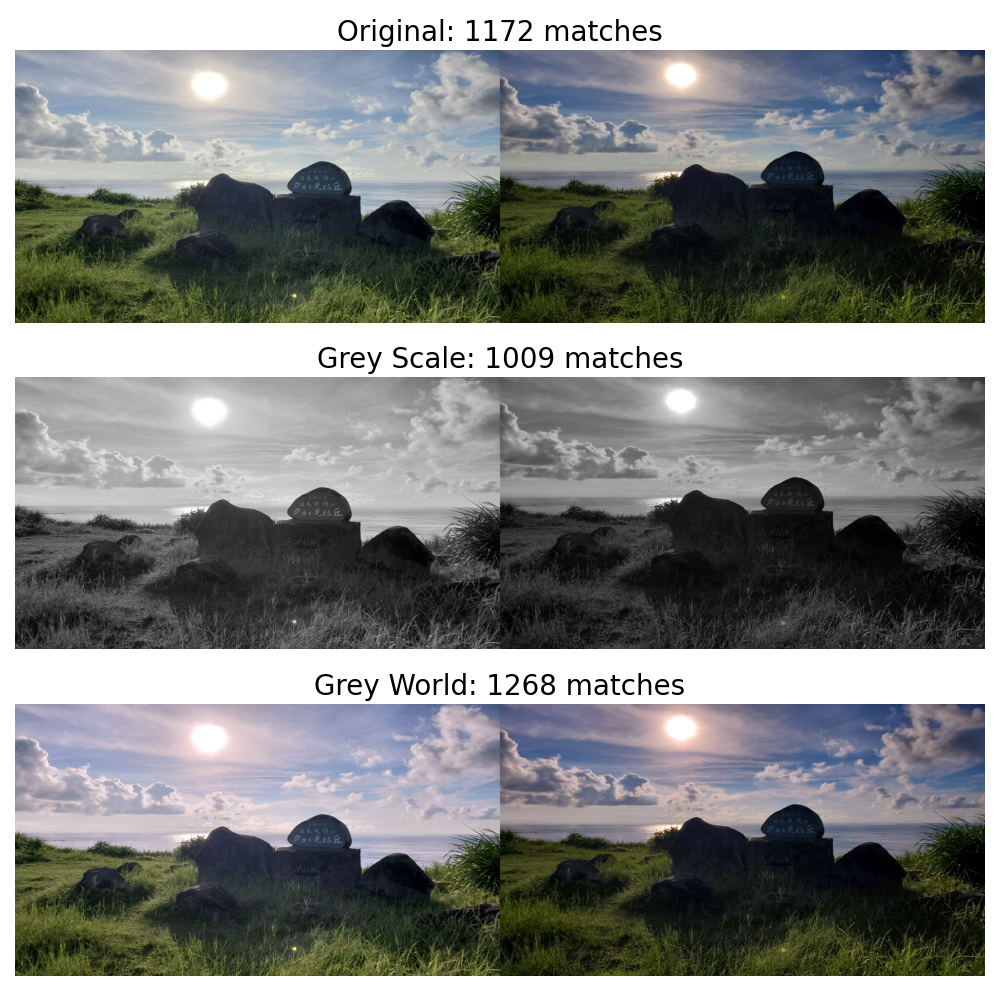
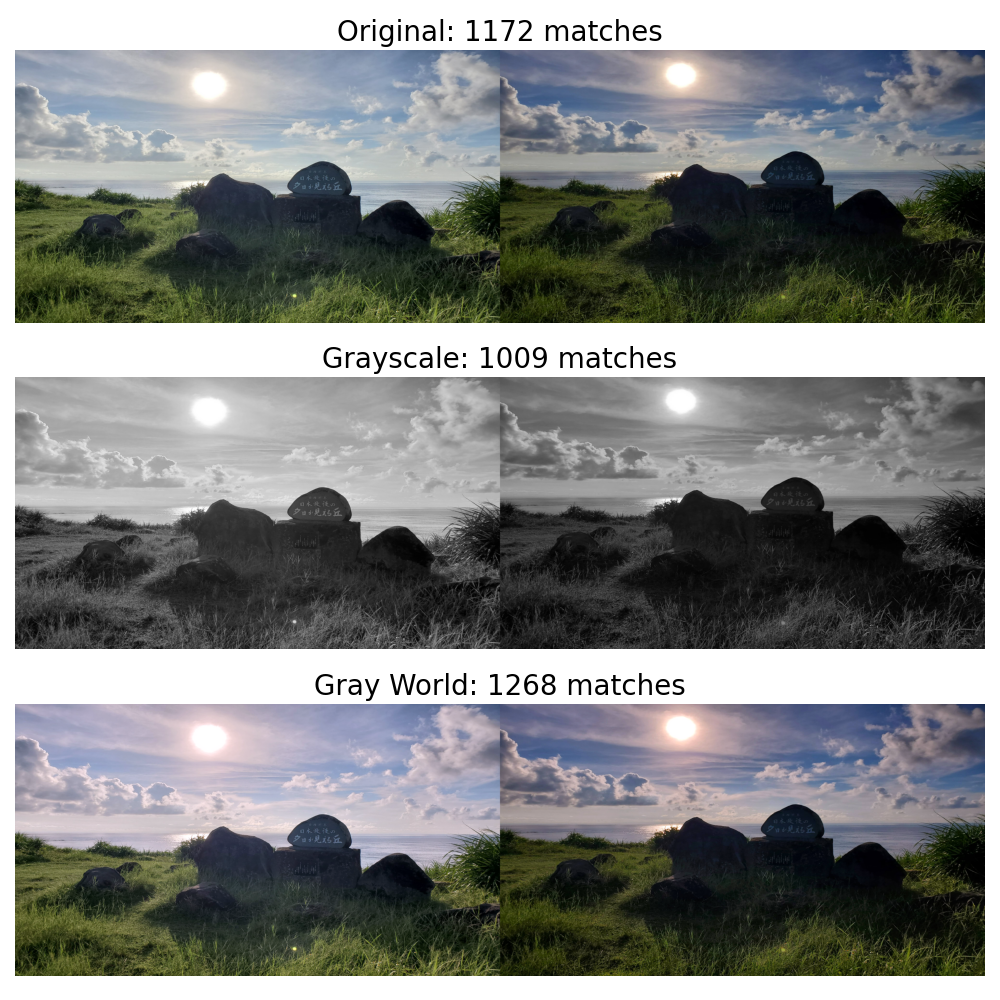
rename

diff --git a/src/main.py b/src/main.py
@@ -3,7 +3,7 @@ import numpy as np
 import matplotlib.pyplot as plt
 
 
-def grey_world(nimg):
+def gray_world(nimg):
     nimg = nimg.transpose(2, 0, 1).astype(np.uint32)
     mu_g = np.average(nimg[1])
     nimg[0] = np.minimum(nimg[0] * (mu_g / np.average(nimg[0])), 255)
@@ -50,12 +50,12 @@ def main():
         img2 = cv2.resize(cv2.imread(img[1]), (1920, 1080))
 
         original_num_matches, original_result_img = feature_matching(img1, img2)
-        grey_scale_num_matches, grey_scale_result_img = feature_matching(
+        gray_scale_num_matches, gray_scale_result_img = feature_matching(
             cv2.cvtColor(np.array(img1), cv2.COLOR_RGB2GRAY),
             cv2.cvtColor(np.array(img2), cv2.COLOR_RGB2GRAY),
         )
-        grey_world_num_matches, grey_world_result_img = feature_matching(
-            grey_world(img1), grey_world(img2)
+        gray_world_num_matches, gray_world_result_img = feature_matching(
+            gray_world(img1), gray_world(img2)
         )
 
         plt.figure(figsize=(10, 10))
@@ -65,13 +65,13 @@ def main():
         plt.axis("off")
 
         plt.subplot(3, 1, 2)
-        plt.imshow(cv2.cvtColor(grey_scale_result_img, cv2.COLOR_BGR2RGB))
-        plt.title(f"Grey Scale: {grey_scale_num_matches} matches", fontsize=20)
+        plt.imshow(cv2.cvtColor(gray_scale_result_img, cv2.COLOR_BGR2RGB))
+        plt.title(f"Grayscale: {gray_scale_num_matches} matches", fontsize=20)
         plt.axis("off")
 
         plt.subplot(3, 1, 3)
-        plt.imshow(cv2.cvtColor(grey_world_result_img, cv2.COLOR_BGR2RGB))
-        plt.title(f"Grey World: {grey_world_num_matches} matches", fontsize=20)
+        plt.imshow(cv2.cvtColor(gray_world_result_img, cv2.COLOR_BGR2RGB))
+        plt.title(f"Gray World: {gray_world_num_matches} matches", fontsize=20)
         plt.axis("off")
 
         plt.tight_layout()
